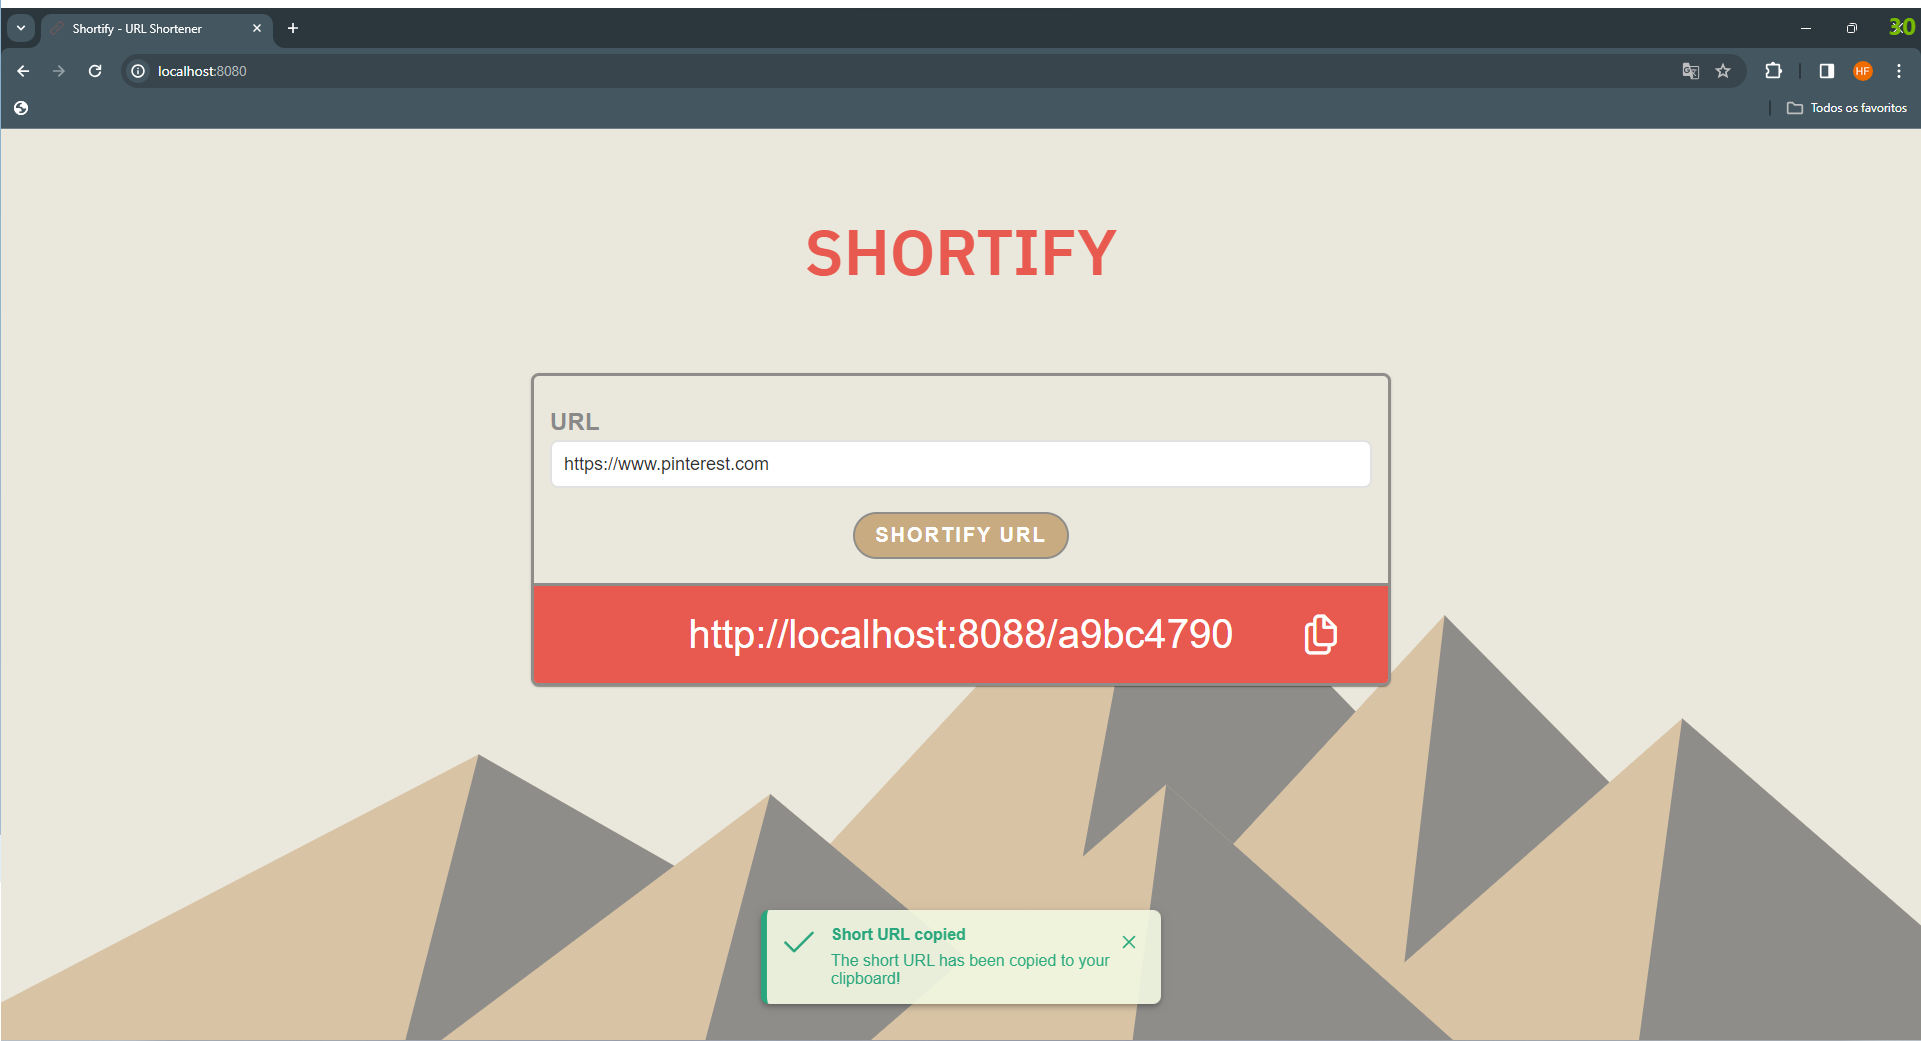
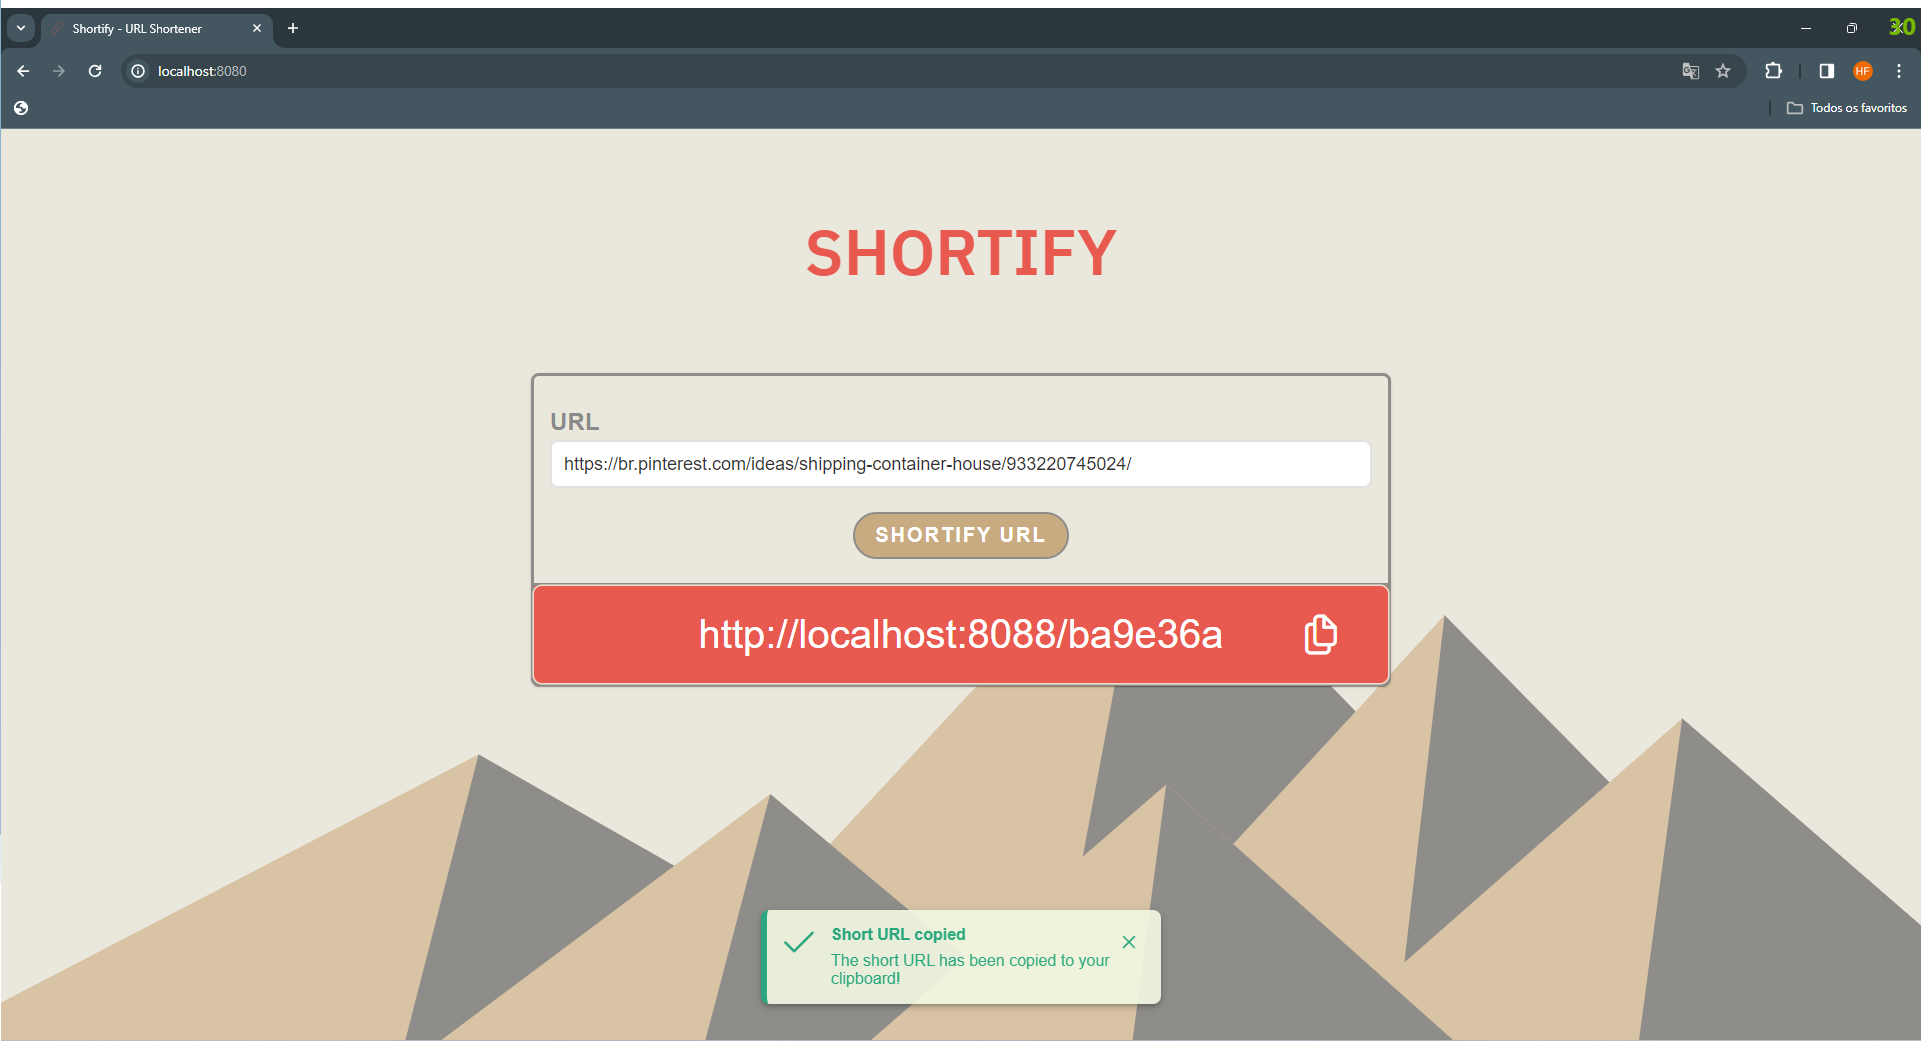
Update readme_assets and README.md

Changed region(s): [[0.3436, 0.5841, 0.6559, 0.6455], [0.3123, 0.4304, 0.5934, 0.4611]]

diff --git a/README.md b/README.md
@@ -1,5 +1,25 @@
 # shortify
-Shortify is an URI Shortening full stack application written in Vue and Quarkus
+Shortify is an URI Shortening full stack application written in Vue and Quarkus.
+
+# Usage
+
+1. First, you type in the URI that you want to shorten
+![Shortify](/readme_assets/shortify_1.png "First, you type in the URI that you want to shorten")
+
+2. Shortify will then return a shortened version of that URI
+![Shortify](/readme_assets/shortify_2.png "Shortify will then return a shortened version of that URI")
+
+3. You can then copy and paste the shortened version of the URI on your browser
+![Shortify](/readme_assets/short_URI_1.png "You can then copy and paste the shortened version of the URI on your browser")
+
+4. When your browser sends a request to the shortened URI, Shortify will redirect you to the original one
+![Shortify](/readme_assets/short_URI_2.png "When your browser sends a request to the shortened URI, Shortify will redirect you to the original one")
+
+## Short URI hostname
+
+Shortify will use the hostname of the server it is beign served on to create the shortened version of URIs.
+
+If the application is served in local mode, the hostname will be `localhost`.
 
 # Running in local mode
 
